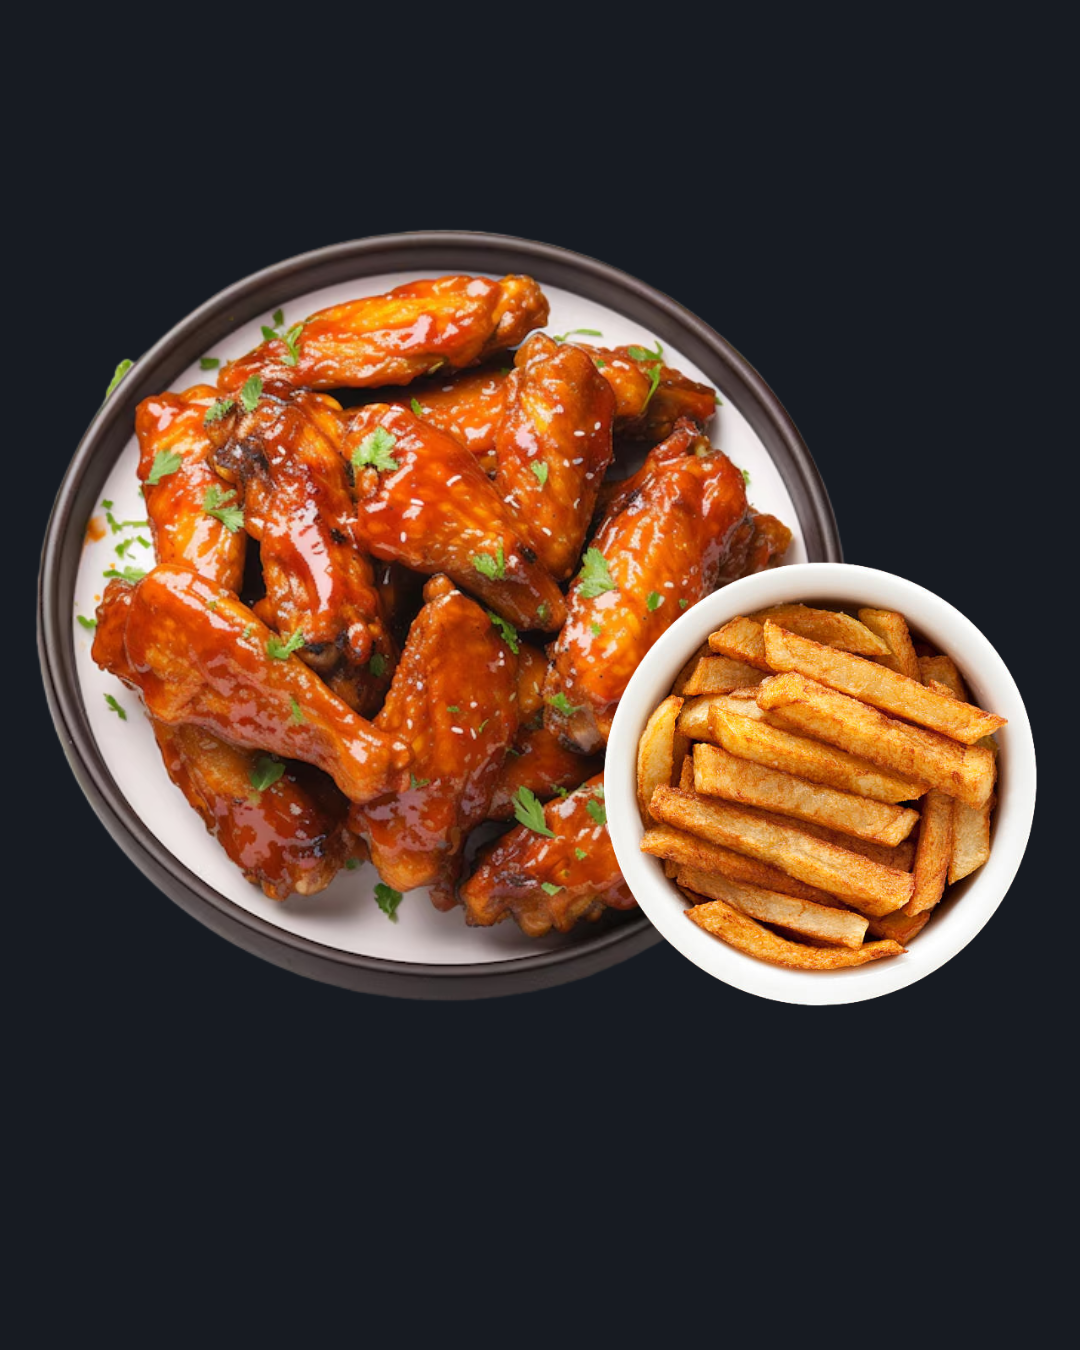
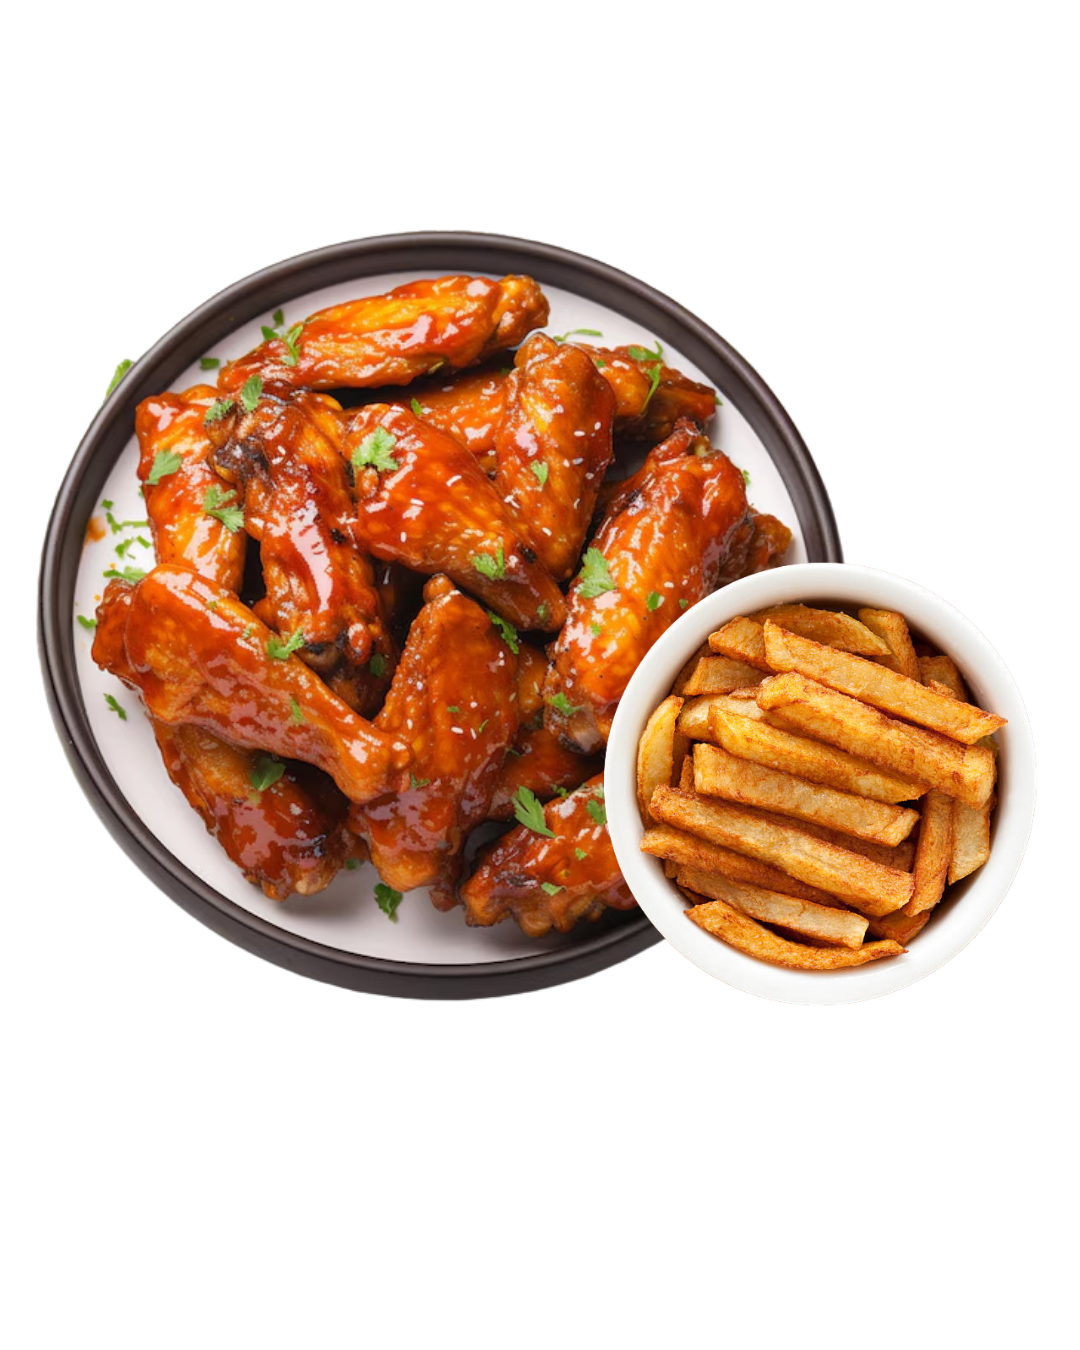
Update: aumentar tamaño de imágenes y actualizar placer.png
Cambios:
- Imagen placer.png actualizada (v2)
- Tamaño móvil: 50x50 → 70x70
- Tamaño desktop: w-20 h-20 → w-28 h-28
- Aplica a ambas imágenes (balance y placer)

🤖 Generated with [Claude Code](https://claude.com/claude-code)

diff --git a/app/page.tsx b/app/page.tsx
@@ -194,9 +194,9 @@ export default function Home() {
               <Image
                 src="/balance.png?v=1"
                 alt="Ensalada Premium"
-                width={50}
-                height={50}
-                className="mx-auto md:w-20 md:h-20"
+                width={70}
+                height={70}
+                className="mx-auto md:w-28 md:h-28"
               />
             </div>
           </div>
@@ -351,11 +351,11 @@ export default function Home() {
           <div className="mb-1 md:mb-2">
             <div className="mb-1 md:mb-1.5 filter drop-shadow-lg">
               <Image
-                src="/placer.png?v=1"
+                src="/placer.png?v=2"
                 alt="Alitas Premium"
-                width={50}
-                height={50}
-                className="mx-auto md:w-20 md:h-20"
+                width={70}
+                height={70}
+                className="mx-auto md:w-28 md:h-28"
               />
             </div>
           </div>
